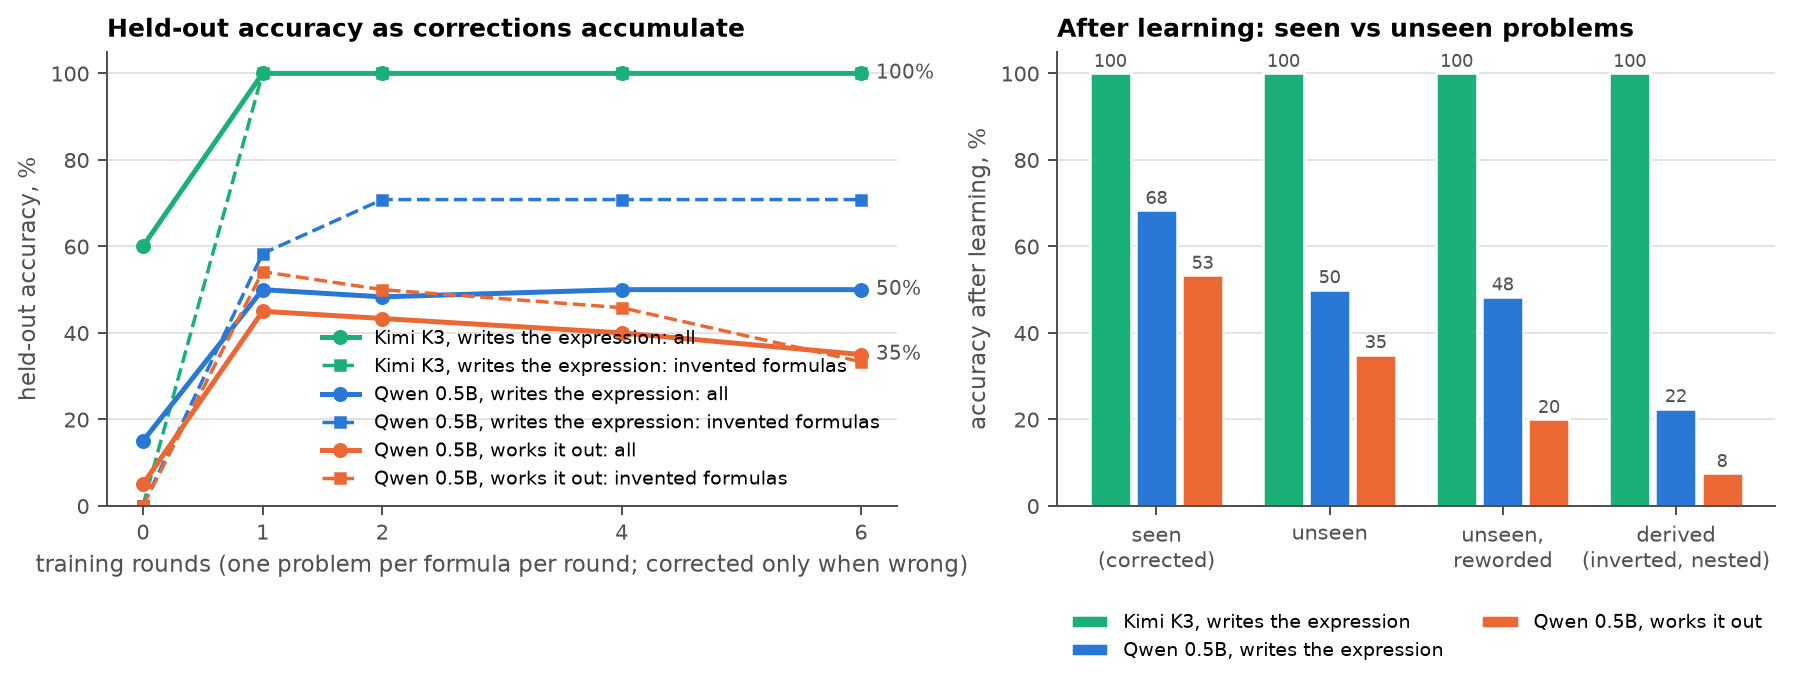
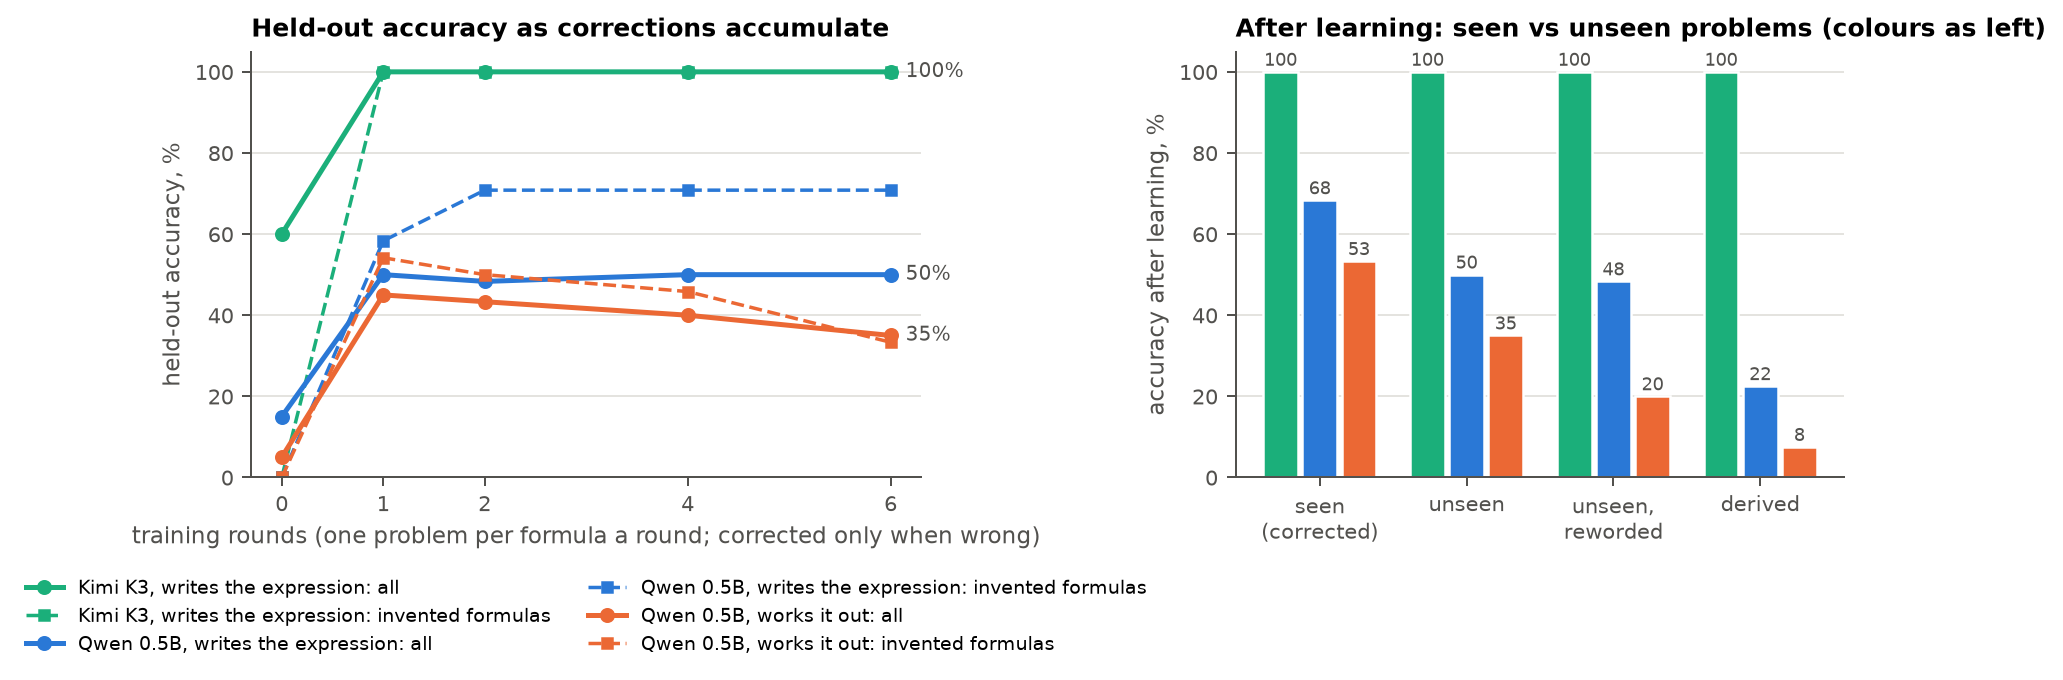
Maths figures: legends below the plots, readable labels

diff --git a/scripts/make_math_figures.py b/scripts/make_math_figures.py
@@ -48,12 +48,12 @@ def fig_curve(out: Path) -> Path | None:
                     fontsize=8, color=INK2)
     a1.set_ylim(0, 105)
     a1.set_xticks(sorted({c["round"] for d in rs.values() for c in d["curve"]}))
-    style(a1, xlabel="training rounds (one problem per formula per round; corrected only when wrong)",
+    style(a1, xlabel="training rounds (one problem per formula a round; corrected only when wrong)",
           ylabel="held-out accuracy, %", grid="y")
     a1.set_title("Held-out accuracy as corrections accumulate", loc="left")
-    a1.legend(frameon=False, fontsize=7.5, loc="lower right")
+    a1.legend(frameon=False, fontsize=7.5, loc="upper center", bbox_to_anchor=(0.5, -0.2), ncol=2)
     splits = [("train", "seen\n(corrected)"), ("test", "unseen"), ("rephrased", "unseen,\nreworded"),
-              ("derived", "derived\n(inverted, nested)")]
+              ("derived", "derived")]
     w = 0.8 / len(rs)
     for i, (key, d) in enumerate(rs.items()):
         xs = [j + (i - (len(rs) - 1) / 2) * w for j in range(len(splits))]
@@ -64,8 +64,7 @@ def fig_curve(out: Path) -> Path | None:
     a2.set_xticks(range(len(splits)), [n for _, n in splits])
     a2.set_ylim(0, 105)
     style(a2, ylabel="accuracy after learning, %", grid="y")
-    a2.set_title("After learning: seen vs unseen problems", loc="left")
-    a2.legend(frameon=False, fontsize=7.5, loc="upper center", bbox_to_anchor=(0.5, -0.2), ncol=2)
+    a2.set_title("After learning: seen vs unseen problems (colours as left)", loc="left")
     fig.tight_layout()
     return save(fig, out, "math_learning_curve.png")
 
